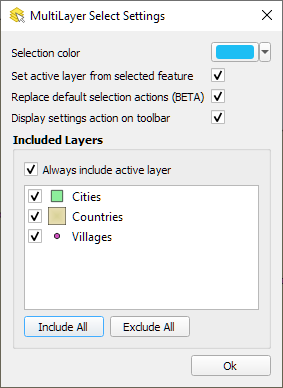
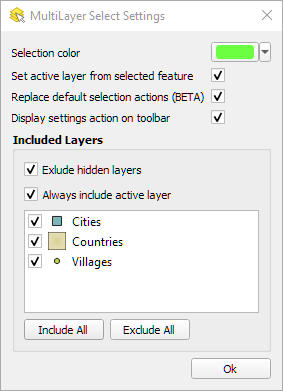
Update metadata & README

diff --git a/README.md b/README.md
@@ -30,7 +30,9 @@ Settings dialog<a name="settings"></a>
  - **Set active..**: If enabled and the active layer has no selected feature, change the active layer to the first layer with at least one selected feature
  - **Replace default action**: If True, replace the QGIS selection tool with the multilayer selection tools. Else, add the  multilayer selection tools in their own toolbar
  - **Display settings action on toolbar**
- - **Included Layers**: list the vector layers in the current project. Unchecked layers will be ignored by the multilayer selection tools (useful for ignoring a vector basemap for instance). If  *Always include active layer* is checked (default), the active layer will not be ignored even if it is unchecked in the list.
+ - **Included Layers**: list the vector layers in the current project. Unchecked layers will be ignored by the multilayer selection tools (useful for ignoring a vector basemap for instance).
+   - If  *Exclude hidden layers* is checked (default), the selection tools will not select or deselect any feature belonging to hidden layers (unchecked in the QGIS layer tree view)
+   - If  *Always include active layer* is checked (default), the active layer will not be ignored even if it is unchecked in the list.
 
 *Exclusion example*
 ![Exlusion Exmaple](./docs/exclusion.gif)
